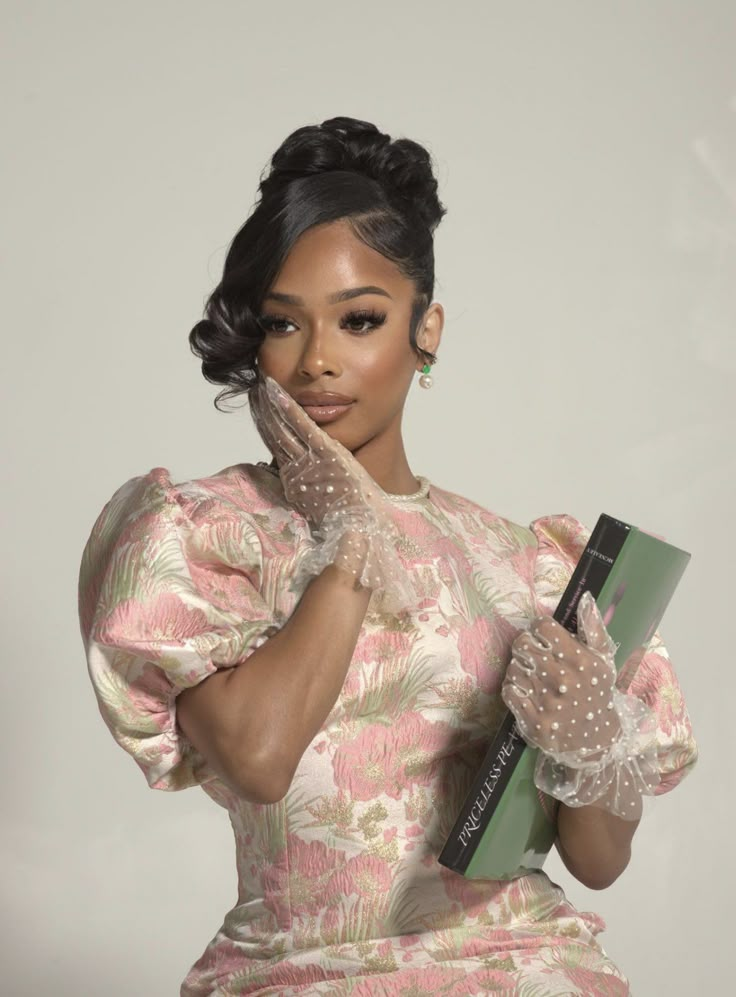
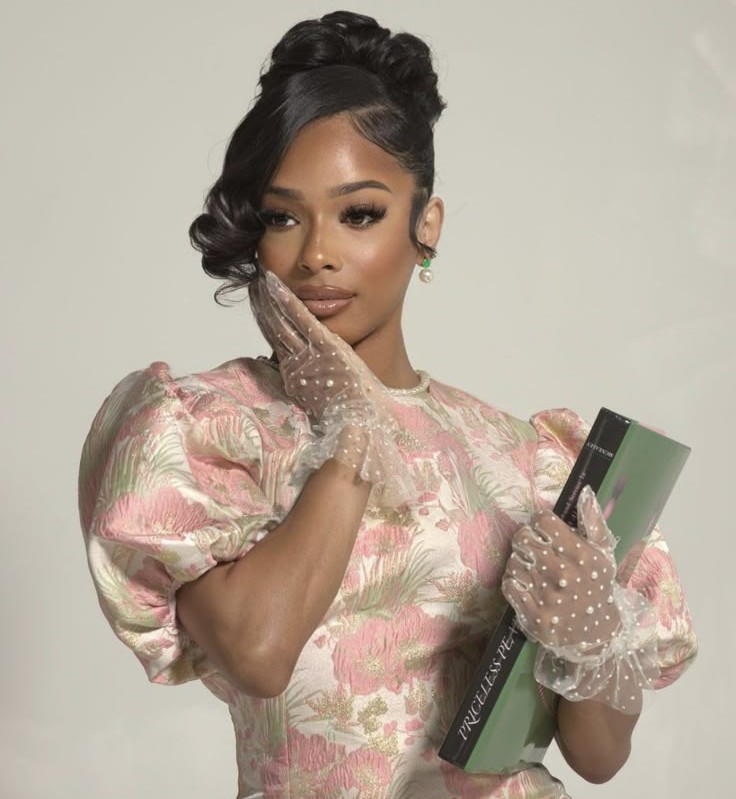
Mobile responsive fixes

diff --git a/css/style.css b/css/style.css
@@ -26,7 +26,7 @@
 
 /* ---- RESET ---- */
 *, *::before, *::after { margin: 0; padding: 0; box-sizing: border-box; }
-html { scroll-behavior: smooth; }
+html { scroll-behavior: smooth; overflow-x: hidden; max-width: 100%; }
 body {
   font-family: 'Montserrat', sans-serif;
   font-weight: 300;
@@ -275,7 +275,7 @@ h3 { font-style: normal; }
   position: fixed;
   inset: 0;
   background: var(--ivory);
-  z-index: 999;
+  z-index: 1001;
   flex-direction: column;
   justify-content: center;
   align-items: center;
@@ -700,8 +700,8 @@ h3 { font-style: normal; }
 .collection-section.reverse > * { direction: ltr; }
 .collection-img { overflow: hidden; }
 .collection-img img {
-  width: 100%; height: 100%;
-  object-fit: cover;
+  width: 100%; height: auto;
+  display: block;
   transition: transform 0.6s ease;
 }
 .collection-section:hover .collection-img img { transform: scale(1.04); }
@@ -743,7 +743,7 @@ h3 { font-style: normal; }
 .two-col.reverse { direction: rtl; }
 .two-col.reverse > * { direction: ltr; }
 .about-img { overflow: hidden; }
-.about-img img { width: 100%; height: 500px; object-fit: cover; }
+.about-img img { width: 100%; height: auto; display: block; }
 .about-text h2 { font-size: clamp(1.9rem, 3vw, 2.8rem); margin-bottom: 1.4rem; }
 .about-text p { color: var(--taupe); margin-bottom: 1.3rem; line-height: 1.9; font-size: 0.9rem; font-weight: 300; }
 .about-link {
@@ -1649,12 +1649,9 @@ h3 { font-style: normal; }
   .collection-section { grid-template-columns: 1fr; min-height: auto; }
   .collection-section.reverse { direction: ltr; }
   .collection-section.reverse > * { direction: ltr; }
-  .collection-img { height: 380px; }
-  .collection-img img { height: 100%; }
   .two-col { grid-template-columns: 1fr; gap: 40px; }
   .two-col.reverse { direction: ltr; }
   .two-col.reverse > * { direction: ltr; }
-  .about-img img { height: 380px; }
   .values-grid { grid-template-columns: 1fr; gap: 24px; }
   .product-detail { grid-template-columns: 1fr; gap: 40px; }
   .product-detail-wrap { padding: 40px 24px 60px; }
@@ -1675,22 +1672,107 @@ h3 { font-style: normal; }
   .hero-split { grid-template-columns: 1fr; min-height: auto; }
   .hero-split-img { min-height: 55vh; }
   .hero-split-text { padding: 60px 32px 80px; }
-  .hero-scroll { left: 32px; }
+  .hero-scroll { display: none; }
 }
 @media (max-width: 600px) {
-  .products-grid { grid-template-columns: 1fr; }
-  .category-grid { grid-template-columns: 1fr; }
-  .lookbook-grid { column-count: 1; }
+  .products-grid { grid-template-columns: repeat(2, 1fr); gap: 6px; padding: 6px; }
+  .category-grid { grid-template-columns: repeat(2, 1fr); gap: 8px; }
+  .lookbook-grid { column-count: 2; column-gap: 6px; padding: 0 8px 40px; }
   .seasons-grid { grid-template-columns: repeat(2, 1fr); padding: 0; }
   .footer-main { grid-template-columns: 1fr; gap: 30px; }
   .form-grid { grid-template-columns: 1fr; }
-  .filter-tabs { flex-wrap: wrap; }
+  .filter-tabs { flex-wrap: nowrap; }
   .newsletter-form { flex-direction: column; }
   .newsletter-form input { border-right: 1px solid rgba(196,132,122,0.32); }
   .product-btns { flex-direction: column; }
-  .gallery-main { height: 380px; }
   .gallery-thumbs { grid-template-columns: repeat(4, 1fr); gap: 8px; }
-  .gallery-thumb { height: 72px; }
   .hero-split-text h1 { font-size: 3rem; }
   .brand-main { font-size: 1.6rem; }
+  /* Button padding — 40px per side is too wide for small phones */
+  .btn { padding: 12px 20px; }
+  /* Tighten hero text padding on tiny screens */
+  .hero-split-text { padding: 40px 16px 50px; }
+  /* Navbar tighter */
+  .navbar { padding: 12px 16px; }
+}
+
+@media (max-width: 768px) {
+
+
+  /* ---- Lookbook: 2 columns, tighter ---- */
+  .lookbook-grid {
+    column-count: 2;
+    column-gap: 6px;
+    padding: 0 8px 40px;
+  }
+
+  /* ---- Product grid: 2 columns ---- */
+  .products-grid {
+    display: grid;
+    grid-template-columns: repeat(2, 1fr);
+    gap: 8px;
+    padding: 8px;
+  }
+
+  .product-card {
+    width: 100%;
+    margin: 0;
+  }
+
+  .product-card-body {
+    padding: 6px 6px 6px 8px;
+    margin-top: 4px;
+  }
+
+  .product-card-body h3 {
+    font-size: 0.78rem;
+    margin-bottom: 4px;
+    line-height: 1.2;
+  }
+
+  .product-card-body .price {
+    font-size: 0.82rem;
+  }
+
+  .card-add-link {
+    font-size: 0.58rem;
+  }
+
+  /* ---- Filter bar: single scrollable row ---- */
+  .filter-bar {
+    padding: 8px 12px;
+    gap: 8px;
+    flex-wrap: nowrap;
+    overflow-x: auto;
+    -webkit-overflow-scrolling: touch;
+    scrollbar-width: none;
+  }
+
+  .filter-bar::-webkit-scrollbar { display: none; }
+
+  .filter-tabs {
+    flex-wrap: nowrap;
+    flex-shrink: 0;
+  }
+
+  .filter-tab {
+    font-size: 0.6rem;
+    padding: 5px 10px;
+    white-space: nowrap;
+    flex-shrink: 0;
+  }
+
+  /* Hide price range and count — saves space on mobile */
+  .filter-price { display: none; }
+  .results-count { display: none; }
+
+  .sort-select {
+    font-size: 0.62rem;
+    padding: 5px 8px;
+    flex-shrink: 0;
+  }
+
+  /* Section/container tighter on mobile */
+  .section { padding: 20px 0; }
+  .container { padding: 0 8px; }
 }
